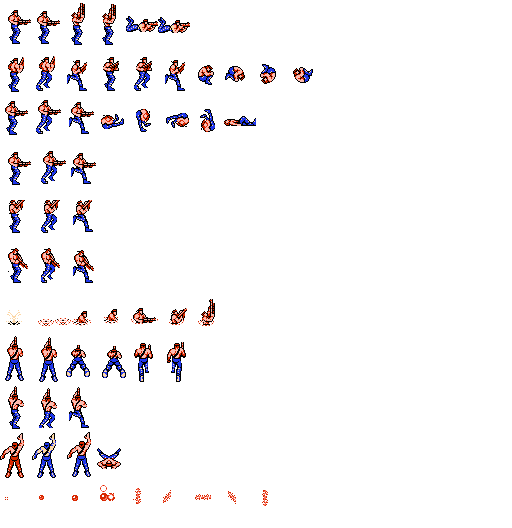
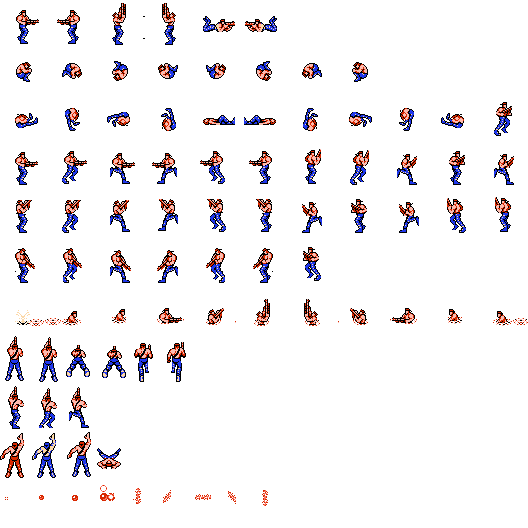
PlayerMovement V1

diff --git a/Contra/2DGame/ContraGame/ContraGame/Player.cpp b/Contra/2DGame/ContraGame/ContraGame/Player.cpp
@@ -13,34 +13,92 @@
 
 enum PlayerAnims
 {
-	STAND_LEFT, STAND_RIGHT, MOVE_LEFT, MOVE_RIGHT
+	STAND_LEFT, STAND_RIGHT, MOVE_LEFT, MOVE_RIGHT, MOVESH_LEFT, MOVESH_RIGHT, JUMP_LEFT, JUMP_RIGHT, LAY_LEFT, LAY_RIGHT, UP_LEFT, UP_RIGHT, DIE_LEFT, DIE_RIGHT, MOVEU45_LEFT, MOVEU45_RIGHT, MOVED45_LEFT, MOVED45_RIGHT
+};
+
+enum PlayerStates
+{
+	standing, running, laying, up, running_up, running_down, jumping
 };
 
 
 void Player::init(const glm::ivec2 &tileMapPos, ShaderProgram &shaderProgram)
 {
+	PlayerState = standing;
+	PlayerDir = "R";
 	bJumping = false;
 	spritesheet.loadFromFile("images/soldado.png", TEXTURE_PIXEL_FORMAT_RGBA);
-	sprite = Sprite::createSprite(glm::ivec2(32, 48), glm::vec2(1/16.f, 1/11.f), &spritesheet, &shaderProgram);
-	sprite->setNumberAnimations(4);
+	sprite = Sprite::createSprite(glm::ivec2(96, 96), glm::vec2(1/11.f, 1/11.f), &spritesheet, &shaderProgram);
+	sprite->setNumberAnimations(18);
 	
 		sprite->setAnimationSpeed(STAND_LEFT, 8);
-		sprite->addKeyframe(STAND_LEFT, glm::vec2(0.f,0.f));
+		sprite->addKeyframe(STAND_LEFT, glm::vec2(1/11.f,0.f));
 		
 		sprite->setAnimationSpeed(STAND_RIGHT, 8);
-		sprite->addKeyframe(STAND_RIGHT, glm::vec2(0.25f, 0.f));
-		
-		sprite->setAnimationSpeed(MOVE_LEFT, 8);
-		sprite->addKeyframe(MOVE_LEFT, glm::vec2(0.f, 0.f));
-		sprite->addKeyframe(MOVE_LEFT, glm::vec2(0.f, 0.25f));
-		sprite->addKeyframe(MOVE_LEFT, glm::vec2(0.f, 0.5f));
+		sprite->addKeyframe(STAND_RIGHT, glm::vec2(0.f, 0.f));
 		
 		sprite->setAnimationSpeed(MOVE_RIGHT, 8);
-		sprite->addKeyframe(MOVE_RIGHT, glm::vec2(0.25, 0.f));
-		sprite->addKeyframe(MOVE_RIGHT, glm::vec2(0.25, 0.25f));
-		sprite->addKeyframe(MOVE_RIGHT, glm::vec2(0.25, 0.5f));
+		sprite->addKeyframe(MOVE_RIGHT, glm::vec2(6/11.f, 3/11.f));
+		sprite->addKeyframe(MOVE_RIGHT, glm::vec2(7/11.f, 3/11.f));
+		sprite->addKeyframe(MOVE_RIGHT, glm::vec2(8/11.f, 3/11.f));
+		sprite->addKeyframe(MOVE_RIGHT, glm::vec2(9/11.f, 3/11.f));
+		sprite->addKeyframe(MOVE_RIGHT, glm::vec2(10/11.f, 2/11.f));
+		sprite->addKeyframe(MOVE_RIGHT, glm::vec2(10/11.f, 3/11.f));
 		
-	sprite->changeAnimation(0);
+		sprite->setAnimationSpeed(MOVE_LEFT, 8);
+		sprite->addKeyframe(MOVE_LEFT, glm::vec2(6/11.f, 4/11.f));
+		sprite->addKeyframe(MOVE_LEFT, glm::vec2(6/11.f, 5/11.f));
+		sprite->addKeyframe(MOVE_LEFT, glm::vec2(7/11.f, 4/11.f));
+		sprite->addKeyframe(MOVE_LEFT, glm::vec2(8/11.f, 4/11.f));
+		sprite->addKeyframe(MOVE_LEFT, glm::vec2(9/11.f, 4/11.f));
+		sprite->addKeyframe(MOVE_LEFT, glm::vec2(10/11.f, 4/11.f));
+
+		sprite->setAnimationSpeed(MOVEU45_RIGHT, 8);
+		sprite->addKeyframe(MOVEU45_RIGHT, glm::vec2(0 / 11.f, 4 / 11.f));
+		sprite->addKeyframe(MOVEU45_RIGHT, glm::vec2(1 / 11.f, 4 / 11.f));
+		sprite->addKeyframe(MOVEU45_RIGHT, glm::vec2(2 / 11.f, 4 / 11.f));
+
+		sprite->setAnimationSpeed(MOVED45_RIGHT, 8);
+		sprite->addKeyframe(MOVED45_RIGHT, glm::vec2(0 / 11.f, 5 / 11.f));
+		sprite->addKeyframe(MOVED45_RIGHT, glm::vec2(1 / 11.f, 5 / 11.f));
+		sprite->addKeyframe(MOVED45_RIGHT, glm::vec2(2 / 11.f, 5 / 11.f));
+
+		sprite->setAnimationSpeed(MOVEU45_LEFT, 8);
+		sprite->addKeyframe(MOVEU45_LEFT, glm::vec2(3 / 11.f, 4 / 11.f));
+		sprite->addKeyframe(MOVEU45_LEFT, glm::vec2(4 / 11.f, 4 / 11.f));
+		sprite->addKeyframe(MOVEU45_LEFT, glm::vec2(5 / 11.f, 4 / 11.f));
+
+		sprite->setAnimationSpeed(MOVED45_LEFT, 8);
+		sprite->addKeyframe(MOVED45_LEFT, glm::vec2(3 / 11.f, 5 / 11.f));
+		sprite->addKeyframe(MOVED45_LEFT, glm::vec2(4 / 11.f, 5 / 11.f));
+		sprite->addKeyframe(MOVED45_LEFT, glm::vec2(5 / 11.f, 5 / 11.f));
+
+		sprite->setAnimationSpeed(UP_LEFT, 8);
+		sprite->addKeyframe(UP_LEFT, glm::vec2(3/11.f, 0.f));
+
+		sprite->setAnimationSpeed(UP_RIGHT, 8);
+		sprite->addKeyframe(UP_RIGHT, glm::vec2(2/11.f, 0.f));
+		
+		sprite->setAnimationSpeed(LAY_LEFT, 8);
+		sprite->addKeyframe(LAY_LEFT, glm::vec2(5 / 11.f, 0.f));
+
+		sprite->setAnimationSpeed(LAY_RIGHT, 8);
+		sprite->addKeyframe(LAY_RIGHT, glm::vec2(4 / 11.f, 0.f));
+
+
+		sprite->setAnimationSpeed(JUMP_LEFT, 8);
+		sprite->addKeyframe(JUMP_LEFT, glm::vec2(0/16.f, 4/11.f));
+		sprite->addKeyframe(JUMP_LEFT, glm::vec2(1 / 16.f, 4/11.f));
+		sprite->addKeyframe(JUMP_LEFT, glm::vec2(2 / 16.f, 4/11.f));
+		sprite->addKeyframe(JUMP_LEFT, glm::vec2(3 / 16.f, 4/11.f));
+		sprite->addKeyframe(JUMP_LEFT, glm::vec2(4 / 16.f, 4/11.f));
+		sprite->addKeyframe(JUMP_LEFT, glm::vec2(5 / 16.f, 4/11.f));
+		sprite->addKeyframe(JUMP_LEFT, glm::vec2(6 / 16.f, 4/11.f));
+		sprite->addKeyframe(JUMP_LEFT, glm::vec2(7 / 16.f, 4/11.f));
+		sprite->addKeyframe(JUMP_LEFT, glm::vec2(8 / 16.f, 4/11.f));
+		sprite->addKeyframe(JUMP_LEFT, glm::vec2(9 / 16.f, 4/11.f));
+
+	sprite->changeAnimation(1);
 	tileMapDispl = tileMapPos;
 	sprite->setPosition(glm::vec2(float(tileMapDispl.x + posPlayer.x), float(tileMapDispl.y + posPlayer.y)));
 	
@@ -49,57 +107,135 @@ void Player::init(const glm::ivec2 &tileMapPos, ShaderProgram &shaderProgram)
 void Player::update(int deltaTime)
 {
 	sprite->update(deltaTime);
-	if(Game::instance().getSpecialKey(GLUT_KEY_LEFT))
-	{
-		if(sprite->animation() != MOVE_LEFT)
-			sprite->changeAnimation(MOVE_LEFT);
-		posPlayer.x -= 2;
-		if(map->collisionMoveLeft(posPlayer, glm::ivec2(32, 32)))
+	if (PlayerState == standing || PlayerState == running_down || PlayerState == running_up || PlayerState == running || PlayerState == up || PlayerState == laying) {
+		if (Game::instance().getSpecialKey(GLUT_KEY_LEFT) && Game::instance().getSpecialKey(GLUT_KEY_DOWN))
 		{
-			posPlayer.x += 2;
-			sprite->changeAnimation(STAND_LEFT);
-		}
-	}
-	else if(Game::instance().getSpecialKey(GLUT_KEY_RIGHT))
-	{
-		if(sprite->animation() != MOVE_RIGHT)
-			sprite->changeAnimation(MOVE_RIGHT);
-		posPlayer.x += 2;
-		if(map->collisionMoveRight(posPlayer, glm::ivec2(32, 32)))
-		{
+			if (sprite->animation() != MOVED45_LEFT)
+				sprite->changeAnimation(MOVED45_LEFT);
+			PlayerState = running_down;
+			PlayerDir = "L";
 			posPlayer.x -= 2;
-			sprite->changeAnimation(STAND_RIGHT);
+			if (map->collisionMoveLeft(posPlayer, glm::ivec2(64, 92)))
+			{
+				posPlayer.x += 2;
+			}
+		}
+		else if (Game::instance().getSpecialKey(GLUT_KEY_LEFT) && Game::instance().getSpecialKey(GLUT_KEY_UP))
+		{
+			if (sprite->animation() != MOVEU45_LEFT)
+				sprite->changeAnimation(MOVEU45_LEFT);
+			PlayerState = running_up;
+			PlayerDir = "L";
+			posPlayer.x -= 2;
+			if (map->collisionMoveLeft(posPlayer, glm::ivec2(64, 92)))
+			{
+				posPlayer.x += 2;
+			}
+		}
+		else if (Game::instance().getSpecialKey(GLUT_KEY_LEFT))
+		{
+			if (sprite->animation() != MOVE_LEFT)
+				sprite->changeAnimation(MOVE_LEFT);
+			PlayerState = running;
+			PlayerDir = "L";
+			posPlayer.x -= 2;
+			if (map->collisionMoveLeft(posPlayer, glm::ivec2(64, 92)))
+			{
+				posPlayer.x += 2;
+			}
+		}
+		else if (Game::instance().getSpecialKey(GLUT_KEY_RIGHT) && Game::instance().getSpecialKey(GLUT_KEY_UP))
+		{
+			if (sprite->animation() != MOVEU45_RIGHT)
+				sprite->changeAnimation(MOVEU45_RIGHT);
+			PlayerState = running_up;
+			PlayerDir = "R";
+			posPlayer.x += 2;
+			if (map->collisionMoveRight(posPlayer, glm::ivec2(64, 92)))
+			{
+				posPlayer.x -= 2;
+			}
+		}
+		else if (Game::instance().getSpecialKey(GLUT_KEY_RIGHT) && Game::instance().getSpecialKey(GLUT_KEY_DOWN))
+		{
+			if (sprite->animation() != MOVED45_RIGHT)
+				sprite->changeAnimation(MOVED45_RIGHT);
+			PlayerState = running_down;
+			PlayerDir = "R";
+			posPlayer.x += 2;
+			if (map->collisionMoveRight(posPlayer, glm::ivec2(64, 92)))
+			{
+				posPlayer.x -= 2;
+			}
+		}
+		else if (Game::instance().getSpecialKey(GLUT_KEY_RIGHT))
+		{
+			if (sprite->animation() != MOVE_RIGHT)
+				sprite->changeAnimation(MOVE_RIGHT);
+			PlayerState = running;
+			PlayerDir = "R";
+			posPlayer.x += 2;
+			if (map->collisionMoveRight(posPlayer, glm::ivec2(64, 92)))
+			{
+				posPlayer.x -= 2;
+			}
+		}
+		else if (Game::instance().getSpecialKey(GLUT_KEY_UP))
+		{
+			if (PlayerDir == "L") {
+				if (sprite->animation() != UP_LEFT)
+					sprite->changeAnimation(UP_LEFT);
+				PlayerState = up;
+			}
+			else {
+				if (sprite->animation() != UP_RIGHT)
+					sprite->changeAnimation(UP_RIGHT);
+				PlayerState = up;
+			}
+		}
+		else if (Game::instance().getSpecialKey(GLUT_KEY_DOWN))
+		{
+			if (PlayerDir == "L") {
+				if (sprite->animation() != LAY_LEFT)
+					sprite->changeAnimation(LAY_LEFT);
+				PlayerState = laying;
+			}
+			else {
+				if (sprite->animation() != LAY_RIGHT)
+					sprite->changeAnimation(LAY_RIGHT);
+				PlayerState = laying;
+			}
+		}
+		else {
+			if (sprite->animation() != STAND_LEFT && sprite->animation() != STAND_RIGHT)
+			{
+				if (PlayerDir == "R") sprite->changeAnimation(STAND_RIGHT);
+				else sprite->changeAnimation(STAND_LEFT);
+			}
+				PlayerState = standing;
 		}
 	}
-	else
-	{
-		if(sprite->animation() == MOVE_LEFT)
-			sprite->changeAnimation(STAND_LEFT);
-		else if(sprite->animation() == MOVE_RIGHT)
-			sprite->changeAnimation(STAND_RIGHT);
-	}
-	
-	if(bJumping)
-	{
+	if ((Game::instance().getKey(0x5A) && (PlayerState != laying )) || PlayerState == jumping) {
 		jumpAngle += JUMP_ANGLE_STEP;
-		if(jumpAngle == 180)
+		if (jumpAngle == 180)
 		{
-			bJumping = false;
+			PlayerState = standing;
 			posPlayer.y = startY;
 		}
 		else
 		{
 			posPlayer.y = int(startY - 96 * sin(3.14159f * jumpAngle / 180.f));
-			if(jumpAngle > 90)
-				bJumping = !map->collisionMoveDown(posPlayer, glm::ivec2(32, 32), &posPlayer.y);
+			if (jumpAngle > 90) {
+				if (map->collisionMoveDown(posPlayer, glm::ivec2(64, 96), &posPlayer.y)) PlayerState = standing;
+			}
 		}
 	}
 	else
 	{
 		posPlayer.y += FALL_STEP;
-		if(map->collisionMoveDown(posPlayer, glm::ivec2(32, 32), &posPlayer.y))
+		if (map->collisionMoveDown(posPlayer, glm::ivec2(64, 96), &posPlayer.y))
 		{
-			if(Game::instance().getSpecialKey(GLUT_KEY_UP))
+			if (Game::instance().getSpecialKey(GLUT_KEY_UP))
 			{
 				bJumping = true;
 				jumpAngle = 0;
@@ -107,7 +243,22 @@ void Player::update(int deltaTime)
 			}
 		}
 	}
-	
+
+	if(PlayerState == jumping)
+	{
+		jumpAngle += JUMP_ANGLE_STEP;
+		if(jumpAngle == 180)
+		{
+			PlayerState = standing;
+			posPlayer.y = startY;
+		}
+		else
+		{
+			posPlayer.y = int(startY - 96 * sin(3.14159f * jumpAngle / 180.f));
+			if(jumpAngle > 90)
+				bJumping = !map->collisionMoveDown(posPlayer, glm::ivec2(64, 96), &posPlayer.y);
+		}
+	}
 	sprite->setPosition(glm::vec2(float(tileMapDispl.x + posPlayer.x), float(tileMapDispl.y + posPlayer.y)));
 }
 

diff --git a/Contra/2DGame/ContraGame/ContraGame/Player.h b/Contra/2DGame/ContraGame/ContraGame/Player.h
@@ -6,6 +6,7 @@
 #include "TileMap.h"
 
 
+
 // Player is basically a Sprite that represents the player. As such it has
 // all properties it needs to track its movement, jumping, and collisions.
 
@@ -24,6 +25,8 @@ public:
 	
 private:
 	bool bJumping;
+	int PlayerState;
+	string PlayerDir;
 	glm::ivec2 tileMapDispl, posPlayer;
 	int jumpAngle, startY;
 	Texture spritesheet;
